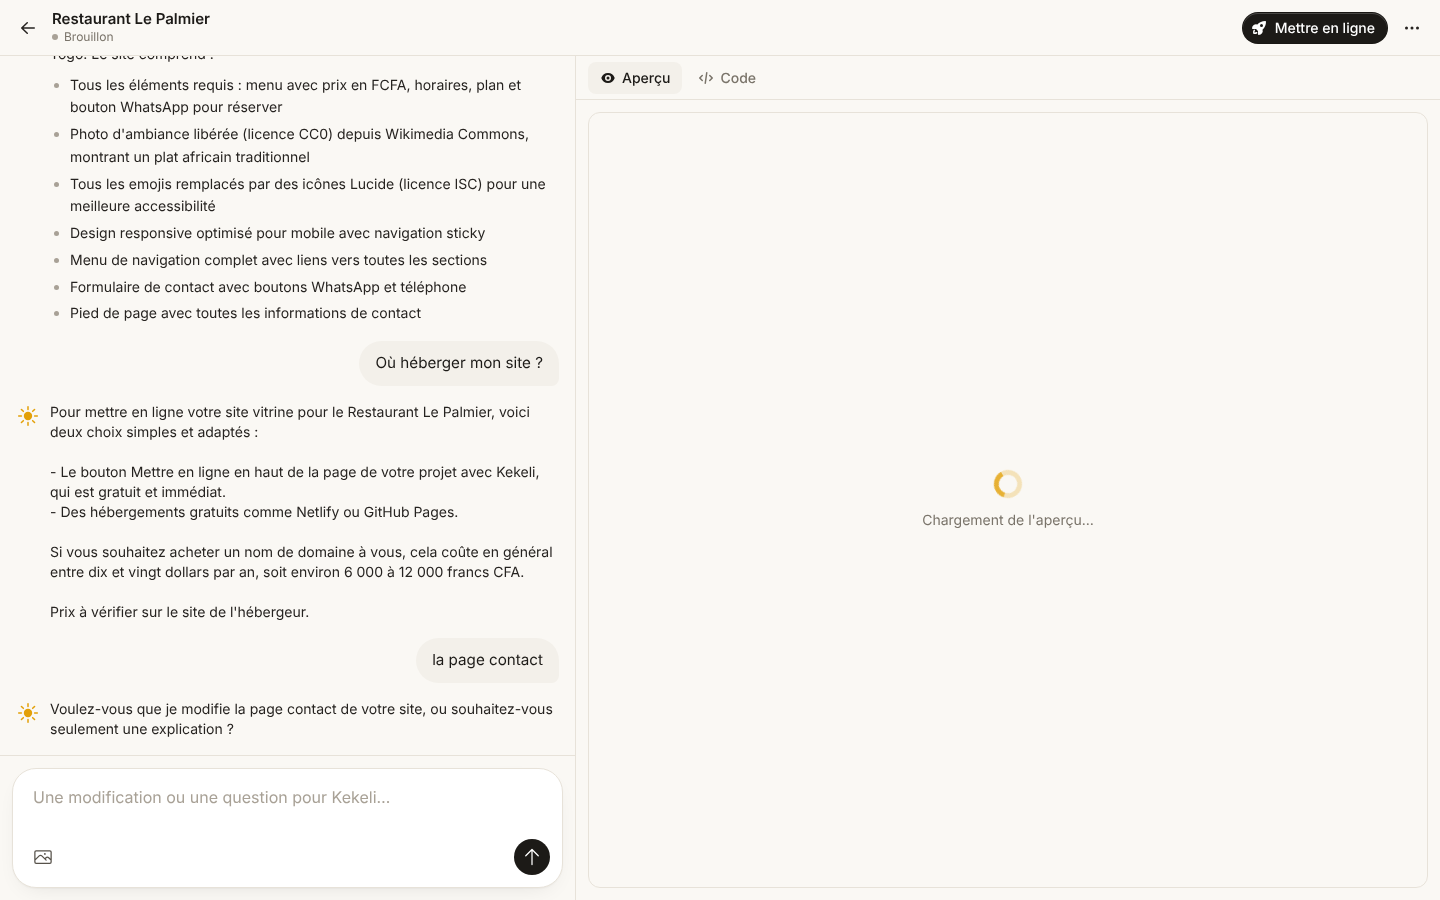
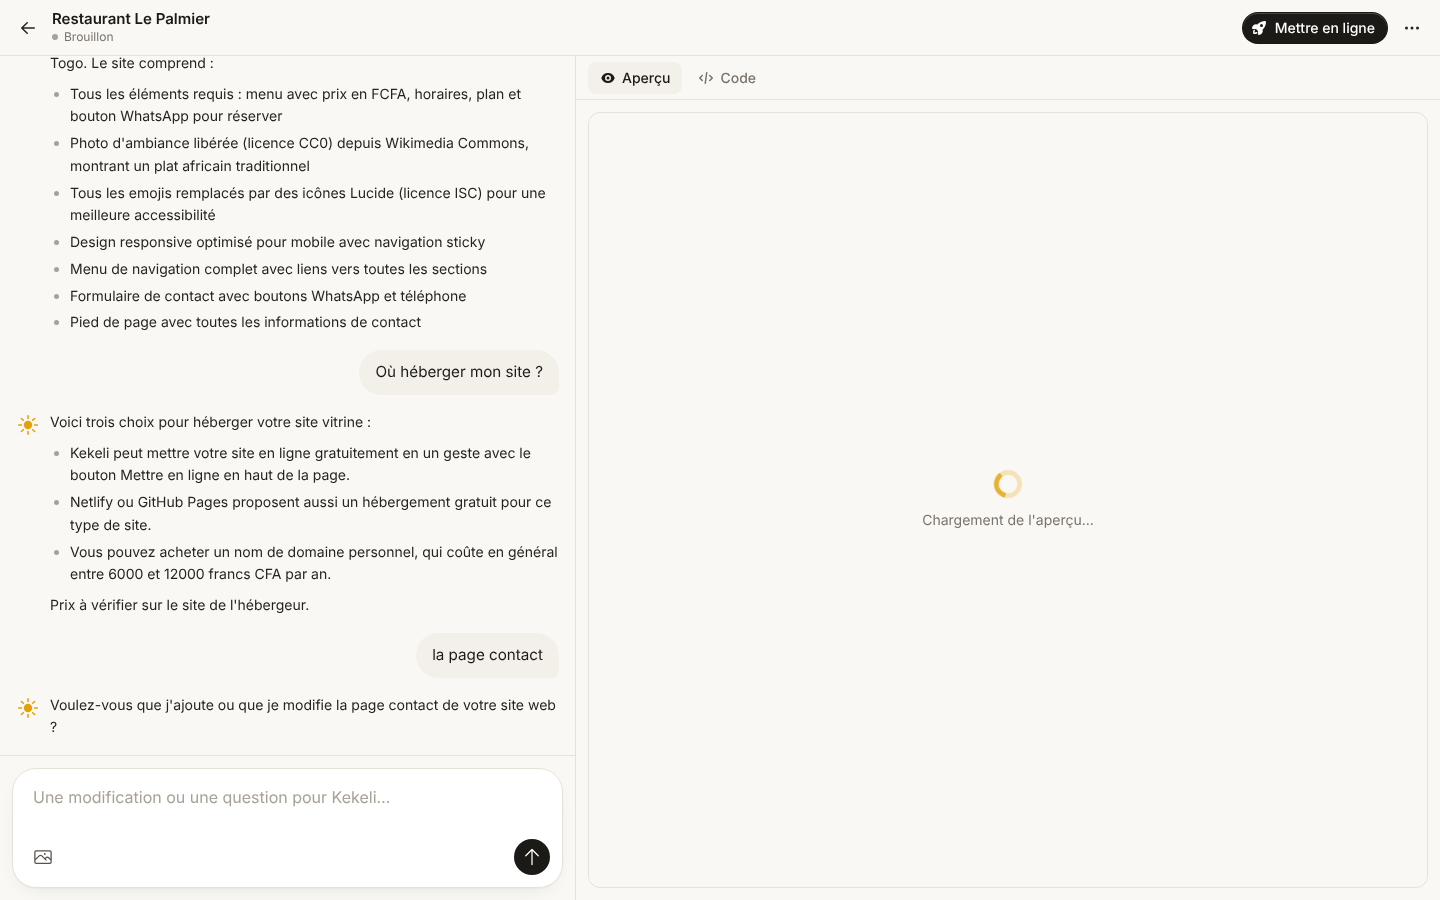
Typographie des réponses : espace insécable devant ? ! : ; à l'affichage
Claude-Session: https://claude.ai/code/session_01LdDqrkxoaQ87kKiJPA4bsJ

Changed region(s): [[0.0312, 0.0622, 0.375, 0.6844], [0.0, 0.7778, 0.375, 0.84], [0.3125, 0.7156, 0.375, 0.7467]]

diff --git a/resources/views/components/run-report.blade.php b/resources/views/components/run-report.blade.php
@@ -15,13 +15,13 @@
                 @if ($block['type'] === 'list')
                     <ul class="list-disc space-y-1 ps-5 marker:text-zinc-400 dark:marker:text-zinc-500" data-report-list>
                         @foreach ($block['items'] as $item)
-                            <li>{{ $item }}</li>
+                            <li>{{ \App\Agent\RunReport::display($item) }}</li>
                         @endforeach
                     </ul>
                 @else
                     <p data-report-paragraph>
                         @foreach ($block['lines'] as $line)
-                            {{ $line }}@if (! $loop->last)<br>@endif
+                            {{ \App\Agent\RunReport::display($line) }}@if (! $loop->last)<br>@endif
                         @endforeach
                     </p>
                 @endif
@@ -34,13 +34,13 @@
                 @if ($block['type'] === 'list')
                     <ul class="list-disc space-y-1 ps-5 marker:text-zinc-400 dark:marker:text-zinc-500" data-report-list>
                         @foreach ($block['items'] as $item)
-                            <li>{{ $item }}</li>
+                            <li>{{ \App\Agent\RunReport::display($item) }}</li>
                         @endforeach
                     </ul>
                 @else
                     <p data-report-paragraph>
                         @foreach ($block['lines'] as $line)
-                            {{ $line }}@if (! $loop->last)<br>@endif
+                            {{ \App\Agent\RunReport::display($line) }}@if (! $loop->last)<br>@endif
                         @endforeach
                     </p>
                 @endif

diff --git a/tests/Feature/FinalMessageDisplayTest.php b/tests/Feature/FinalMessageDisplayTest.php
@@ -27,10 +27,10 @@ class FinalMessageDisplayTest extends TestCase
         ], RunReport::blocks($message));
 
         $html = $this->pageWith($message);
-        $this->assertMatchesRegularExpression('/Votre site est prêt\.\s*<br>\s*Vos clients peuvent :/u', $html);
+        $this->assertMatchesRegularExpression('/Votre site est prêt\.\s*<br>\s*Vos clients peuvent&nbsp;:/u', $html);
         $this->assertStringContainsString('data-report-list', $html);
         $this->assertSame(3, substr_count($this->between($html, 'data-report-list', '</ul>'), '<li>'));
-        $this->assertMatchesRegularExpression('/<li>voir le menu avec les prix ;<\/li>/u', $html);
+        $this->assertMatchesRegularExpression('/<li>voir le menu avec les prix&nbsp;;<\/li>/u', $html);
         $this->assertSame(2, substr_count($html, 'data-report-paragraph'));
     }
 
@@ -47,6 +47,15 @@ class FinalMessageDisplayTest extends TestCase
 
         $this->assertStringNotContainsString('<script>alert(1)</script>', $html);
         $this->assertStringNotContainsString('<b>Le menu</b>', $html);
+    }
+
+    public function test_a_question_mark_is_never_alone_at_the_start_of_a_line(): void
+    {
+        $html = $this->pageWith('Voulez-vous que je modifie la page contact de votre site web ? Dites « oui » !');
+
+        $this->assertStringContainsString('site web&nbsp;?', $html);
+        $this->assertStringContainsString('«&nbsp;oui&nbsp;»&nbsp;!', $html);
+        $this->assertStringNotContainsString("\u{00A0}", $html);
     }
 
     public function test_the_final_message_is_stored_with_its_shape(): void

diff --git a/app/Agent/RunReport.php b/app/Agent/RunReport.php
@@ -4,6 +4,7 @@ namespace App\Agent;
 
 use App\Models\AgentRun;
 use App\Models\AgentStep;
+use Illuminate\Support\HtmlString;
 use Illuminate\Support\Str;
 
 /**
@@ -182,6 +183,19 @@ class RunReport
         }
 
         return array_values(array_filter($blocks, fn ($block) => $block['type'] !== 'break'));
+    }
+
+    /**
+     * A line of text for the page, escaped first, with French typography: a non-breaking space before ? ! : ; » and
+     * after «, so that a sign is never alone at the start of a line. Only the display changes, never the stored text.
+     */
+    public static function display(string $line): HtmlString
+    {
+        $html = e($line);
+        $html = preg_replace('/ ([?!:;»])/u', '&nbsp;$1', $html);
+        $html = preg_replace('/« /u', '«&nbsp;', $html);
+
+        return new HtmlString($html);
     }
 
     /**

diff --git a/tests/Feature/FirstResponderTest.php b/tests/Feature/FirstResponderTest.php
@@ -131,7 +131,7 @@ class FirstResponderTest extends TestCase
         Volt::actingAs($user)->test('projects.show', ['project' => $project])->set('content', 'la page contact')->call('send');
 
         Bus::assertNotDispatched(SendAgentRun::class);
-        $this->actingAs($user)->get(route('projects.show', $project))->assertSee('Voulez-vous que je modifie votre site, ou seulement une explication ?');
+        $this->actingAs($user)->get(route('projects.show', $project))->assertSee('Voulez-vous que je modifie votre site, ou seulement une explication&nbsp;?', false);
 
         // Le client répond « oui vas y » : l'outil est appelé, et l'agent reçoit aussi les échanges précédents.
         $this->model->callsTool('modifier_site');

diff --git a/tests/Feature/AgentTest.php b/tests/Feature/AgentTest.php
@@ -208,7 +208,7 @@ class AgentTest extends TestCase
 
         $this->actingAs($run->project->user)->get(route('projects.show', $run->project))
             // Une réponse qui ne contient qu'un nom de fichier devient une phrase simple.
-            ->assertSee('C&#039;est fait : votre site est à jour.', false)
+            ->assertSee('C&#039;est fait&nbsp;: votre site est à jour.', false)
             ->assertSee('Kekeli a fait 2 actions')
             ->assertDontSee('wire:poll.2s', false)
             ->assertDontSee('Kekeli travaille…');
